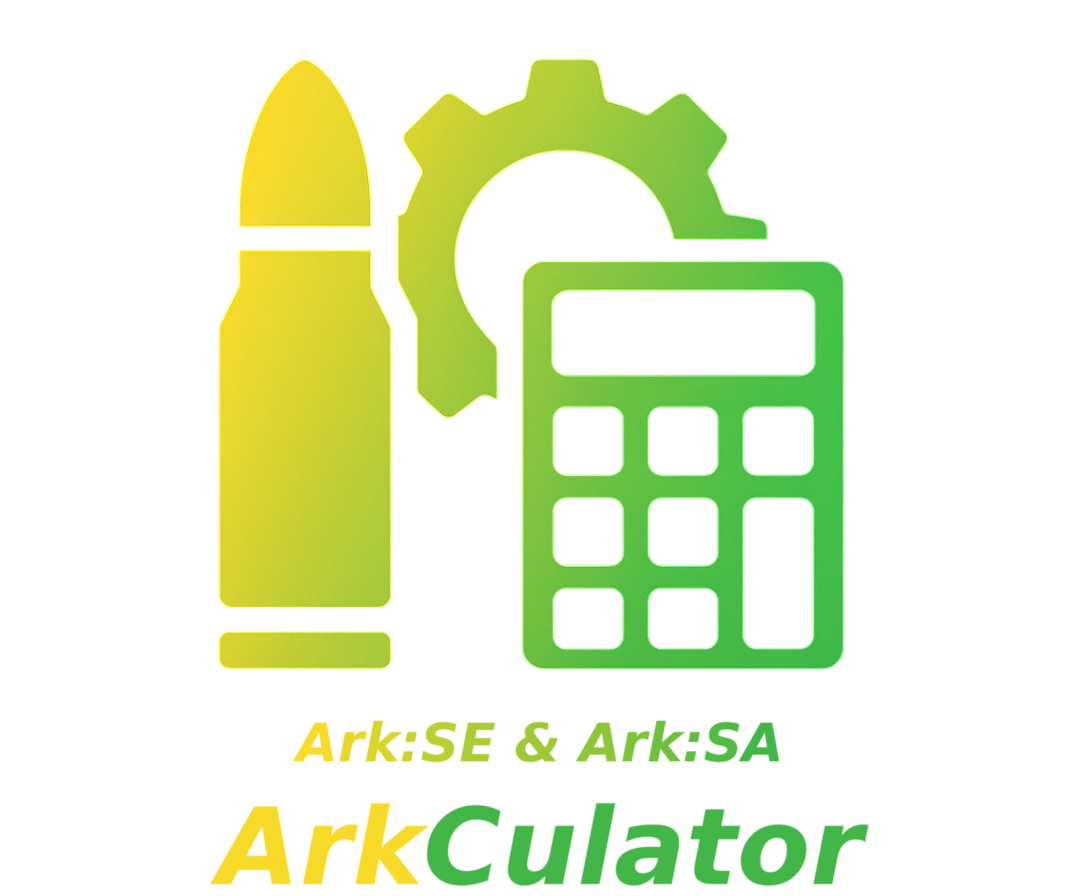
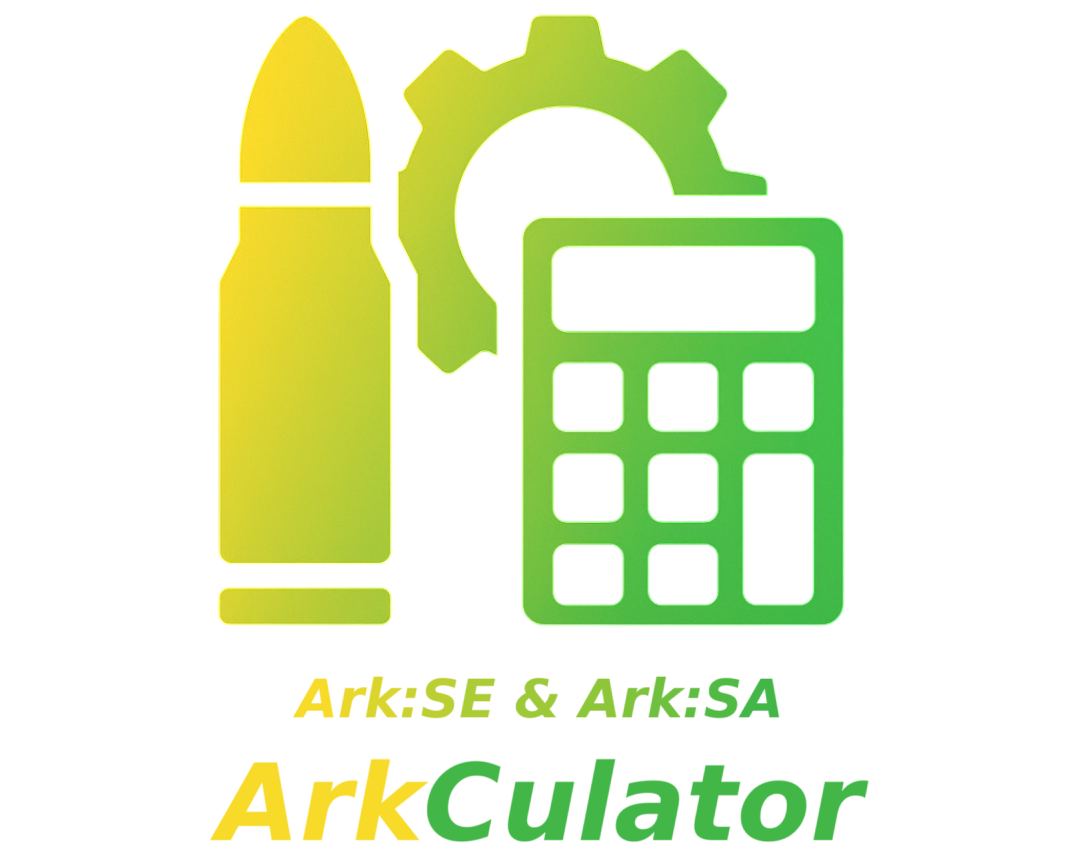
README adjustments

diff --git a/README.md b/README.md
@@ -1,12 +1,7 @@
 <p align="center">
     <picture>
-        <source
-          width="190px"
-          media="(prefers-color-scheme: dark)"
-        >
-        <img 
-          src="img/ArkCulator.png"
-        >
+        <source media="(prefers-color-scheme: dark)">
+        <img src="img/ArkCulator.png" width="60%">
     </picture>
     <br>
     <br>
